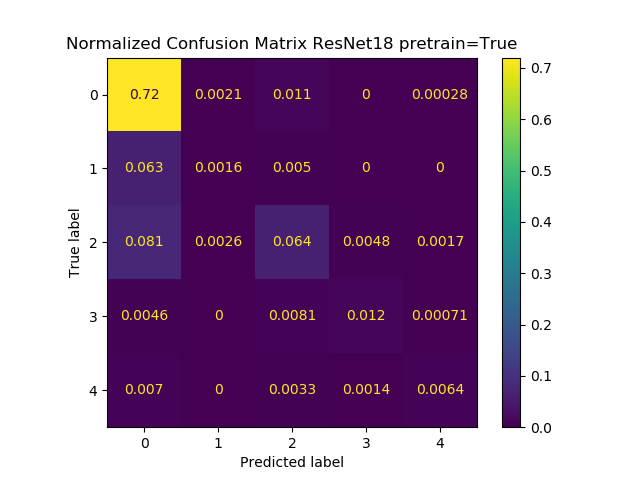
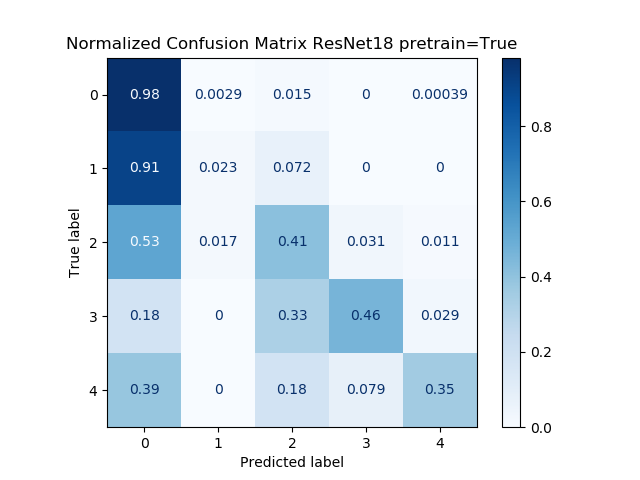
finish Lab3

diff --git a/Lab3/test.py b/Lab3/test.py
@@ -3,22 +3,22 @@ import torch.nn as nn
 import torch
 import matplotlib.pyplot as plt 
 from dataloader import get_loader
-from train import get_device, get_optimizer, search_checkpoint, load_checkpoint
+from train import get_device, search_checkpoint, load_checkpoint
 from model import initialize_resnet
 from util import progressBar
 import numpy as np
 def plot_confusion_matrix(hp,t=None):
+    print('\n\n')
+    print(f"Trying to test {hp['model']}_pretrain={hp['pretrain']}:")
+    print('--------------------------------------------------------')
     # get dataloader
     train_dl, test_dl = get_loader(hp)
     # get device
     device = get_device()
     # generate model
     model = initialize_resnet(hp).to(device)
-    print(model)
+    #print(model)
     
-    # optimizer (unused in this case)
-    optimizer = get_optimizer(hp,model)
-
     history = {
         'test_acc':[],
         'test_loss':[],
@@ -35,7 +35,7 @@ def plot_confusion_matrix(hp,t=None):
     for t in range(epochs):
         if  search_checkpoint(t,hp):
             if not search_checkpoint(t+1,hp):
-                model, optimizer, history = load_checkpoint(t,hp,model,optimizer,history)
+                model, _ , history = load_checkpoint(t,hp,model)
                 print('previous test acc : -----------------')
                 for cnt,  l in enumerate(history['test_acc']):
                     print(f'epoch{cnt:<5}:{l:<5.3f}')
@@ -56,19 +56,17 @@ def plot_confusion_matrix(hp,t=None):
             y_truth.extend(list(y.detach().cpu().numpy()))
     # get ground truth label
     
-    cf = confusion_matrix(y_truth,y_pred, normalize='all')
+    cf = confusion_matrix(y_truth,y_pred, normalize='true')
     disp = ConfusionMatrixDisplay(cf,display_labels=np.arange(5))
-    disp.plot()
+    disp.plot(cmap=plt.cm.Blues)
     disp.ax_.set_title(f"Normalized Confusion Matrix {hp['model']} pretrain={hp['pretrain']}")
-
-    
-    print(disp.confusion_matrix)
     plt.savefig(f"plots/CM_{hp['model']}_pretrain={hp['pretrain']}.png",backend='agg')
-
-    acc = np.sum(y_truth == y_pred)/len(y_truth)
+    acc = np.sum(np.array(y_truth) == np.array(y_pred)) / len(y_truth)
     return acc 
     
 if __name__ == '__main__':
+
+    # ResNet18
     hp = {
         'model':'ResNet18', # or  'ResNet50'
         'optimizer':'sgd',
@@ -79,5 +77,49 @@ if __name__ == '__main__':
         'epochs':10
     }
     
+    acc = plot_confusion_matrix(hp)
+    print(f"accuracy for {hp['model']}_pretrain={hp['pretrain']} = {acc}")
+
+
+    hp = {
+        'model':'ResNet18', # or  'ResNet50'
+        'optimizer':'sgd',
+        'lr':1e-3,
+        'pretrain':False,
+        'feature_extracting':False,
+        'bs':128,
+        'epochs':10
+    }
+    
+    acc = plot_confusion_matrix(hp)
+    print(f"accuracy for {hp['model']}_pretrain={hp['pretrain']} = {acc}")
+
+
+    # ResNet 50
+    hp = {
+        'model':'ResNet50', # or  'ResNet50'
+        'optimizer':'sgd',
+        'lr':1e-3,
+        'pretrain':True,
+        'feature_extracting':False,
+        'bs':64,
+        'epochs':5
+    }
+
+    acc = plot_confusion_matrix(hp)
+    print(f"accuracy for {hp['model']}_pretrain={hp['pretrain']} = {acc}")
+
+
+    # ResNet 50
+    hp = {
+        'model':'ResNet50', # or  'ResNet50'
+        'optimizer':'sgd',
+        'lr':1e-3,
+        'pretrain':False,
+        'feature_extracting':False,
+        'bs':64,
+        'epochs':5
+    }
+
     acc = plot_confusion_matrix(hp)
     print(f"accuracy for {hp['model']}_pretrain={hp['pretrain']} = {acc}")

diff --git a/Lab3/plot.py b/Lab3/plot.py
@@ -1,0 +1,71 @@
+import numpy as np
+import torch.nn as nn
+import torch
+from dataloader import get_loader
+from train import get_device, get_optimizer, search_checkpoint, load_checkpoint
+from model import initialize_resnet
+import matplotlib.pyplot as plt 
+
+
+def plot_learning_curves(hp):
+    history={
+        'pretrain':None,
+        'no-pretrain':None
+    }
+    
+    pretrain = ['pretrain', 'no-pretrain']
+    for p, tf in zip(pretrain,[True,False]):
+        hp['pretrain']=tf
+        assert search_checkpoint(hp['epochs']-1,hp), "training process not finished"
+        _, _, history[p] = load_checkpoint(hp['epochs']-1,hp)
+    
+        
+    plt.figure(figsize=(10,8))
+    
+    
+    for p_key in pretrain:
+        style = 'r' if p_key == 'pretrain' else 'b'
+        for t in ['test','train']:
+            t_key = t + '_acc'
+            style_ = style +'-.' if t == 'test' else style
+            plt.plot(
+                history[p_key][t_key],
+                style_,
+                label=f'{t}-{p_key}',
+                linewidth=1
+            )
+            print(f'Highest {t}ing ACC for {hp["model"]} using {p_key:<16}: {max(history[p_key][t_key]):>7.3f}')
+    plt.xlabel('epochs')
+    plt.ylabel('acc')
+    plt.yticks(np.arange(0.7,0.85,0.02))
+    plt.title(f'Result Comparason ({hp["model"]})',fontsize=20)
+    plt.legend()
+    plt.grid()
+    plt.savefig(f'plots/Compare_{hp["model"]}.png',backend='agg')
+if __name__ == '__main__':
+    #ResNet18
+    hp = {
+        'model':'ResNet18', # or  'ResNet50'
+        'optimizer':'sgd',
+        'lr':1e-3,
+        'pretrain':True,
+        'feature_extracting':False,
+        'bs':128,
+        'epochs':10
+    }
+
+    plot_learning_curves(hp)
+
+    # ResNet50
+    
+    hp = {
+        'model':'ResNet50', # or  'ResNet50'
+        'optimizer':'sgd',
+        'lr':1e-3,
+        'pretrain':True,
+        'feature_extracting':False,
+        'bs':4,
+        'epochs':5
+    }
+
+    plot_learning_curves(hp)

diff --git a/Lab3/.#train.py b/Lab3/.#train.py
@@ -1,0 +1,1 @@
+nemo@ec037-049.7038:1627896776
